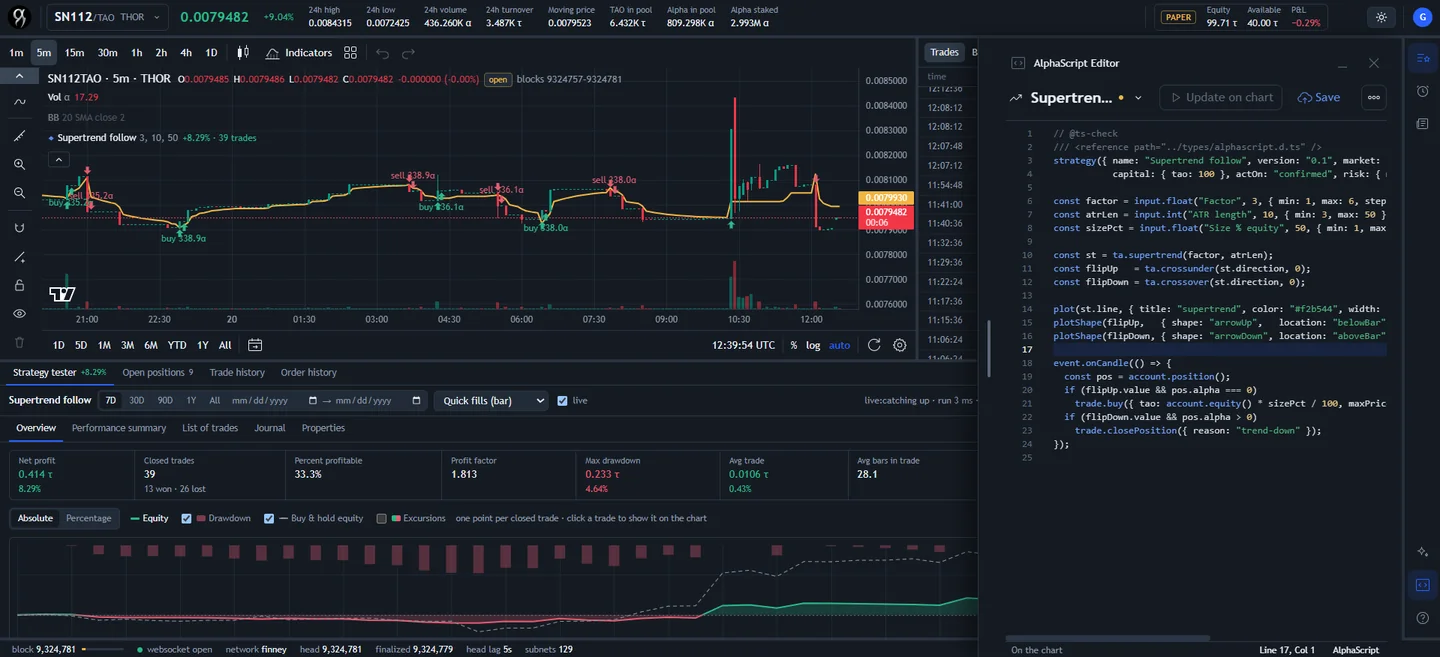
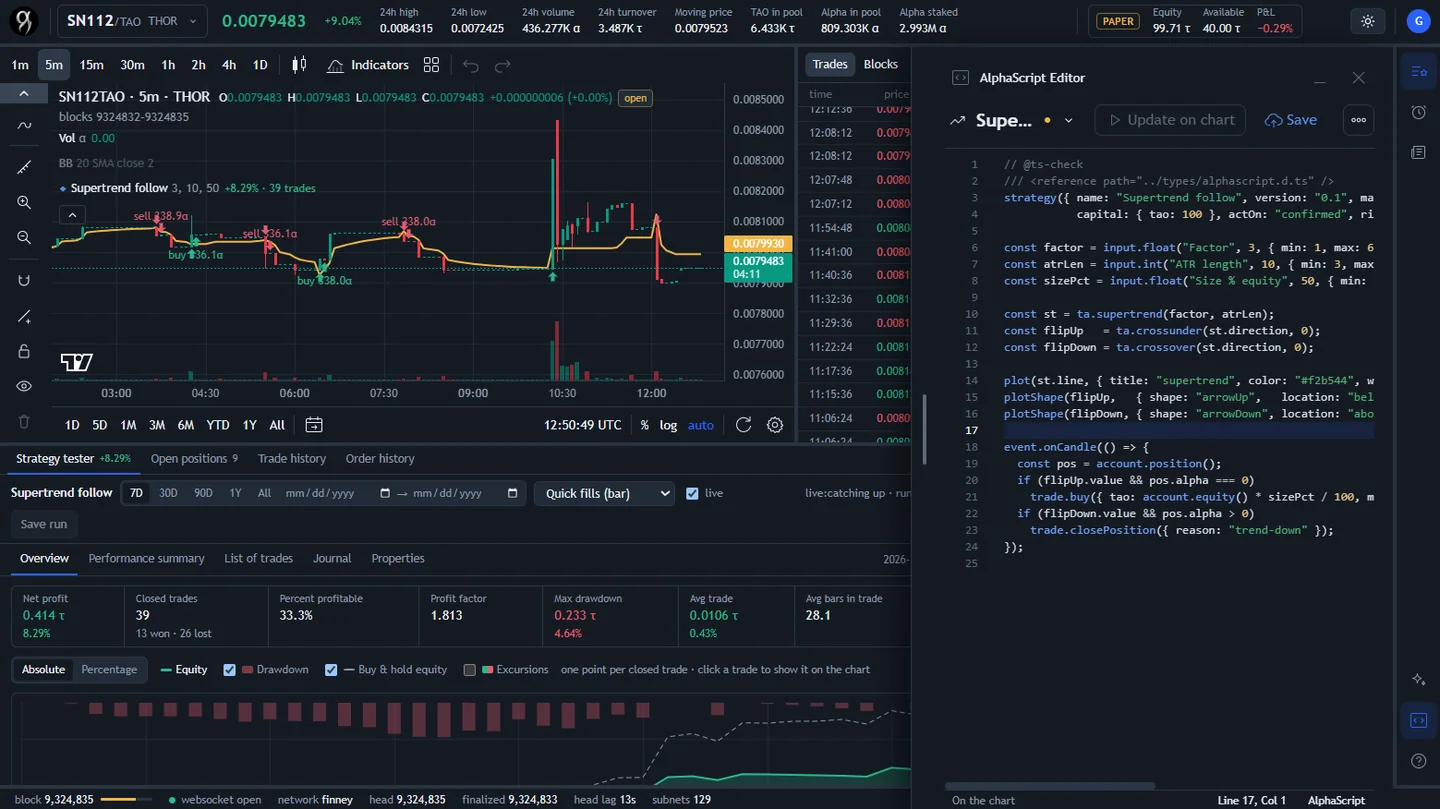
Update hero image dimensions and replace with optimized version

diff --git a/.vitepress/theme/custom.css b/.vitepress/theme/custom.css
@@ -52,7 +52,7 @@
   box-shadow: 0 2px 6px rgba(0, 0, 0, 0.4), 0 28px 90px -20px rgba(41, 98, 255, 0.42);
 }
 
-@media (min-width: 960px) and (max-width: 1279px) {
+@media (min-width: 960px) and (max-width: 1439px) {
   .VPHero.has-image .container {
     flex-direction: column;
   }
@@ -66,24 +66,29 @@
   }
 }
 
-@media (min-width: 1280px) {
+@media (min-width: 1440px) {
   .VPHero {
     overflow-x: clip;
   }
 
   .VPHero.has-image .main {
     flex-shrink: 0;
+    max-width: 560px;
   }
 
   .VPHero.has-image .image {
     display: flex;
     align-items: center;
-    margin: 0 0 0 48px;
+    margin: 0 0 0 32px;
     min-width: 0;
   }
 
+  .VPHero.has-image .image-container {
+    justify-content: flex-start;
+  }
+
   .VPHero.has-image .image-src {
-    width: calc(100% + clamp(0px, (100vw - 1280px) / 2, 200px));
+    width: calc(100% + clamp(0px, (100vw - 1152px) / 2 - 64px, 400px));
   }
 }
 

diff --git a/index.md b/index.md
@@ -9,7 +9,7 @@ hero:
     src: /hero-terminal.webp
     alt: The AlphaForge terminal with the AlphaScript editor open and a strategy running on the chart
     width: 1440
-    height: 657
+    height: 809
     fetchpriority: high
   actions:
     - theme: brand
